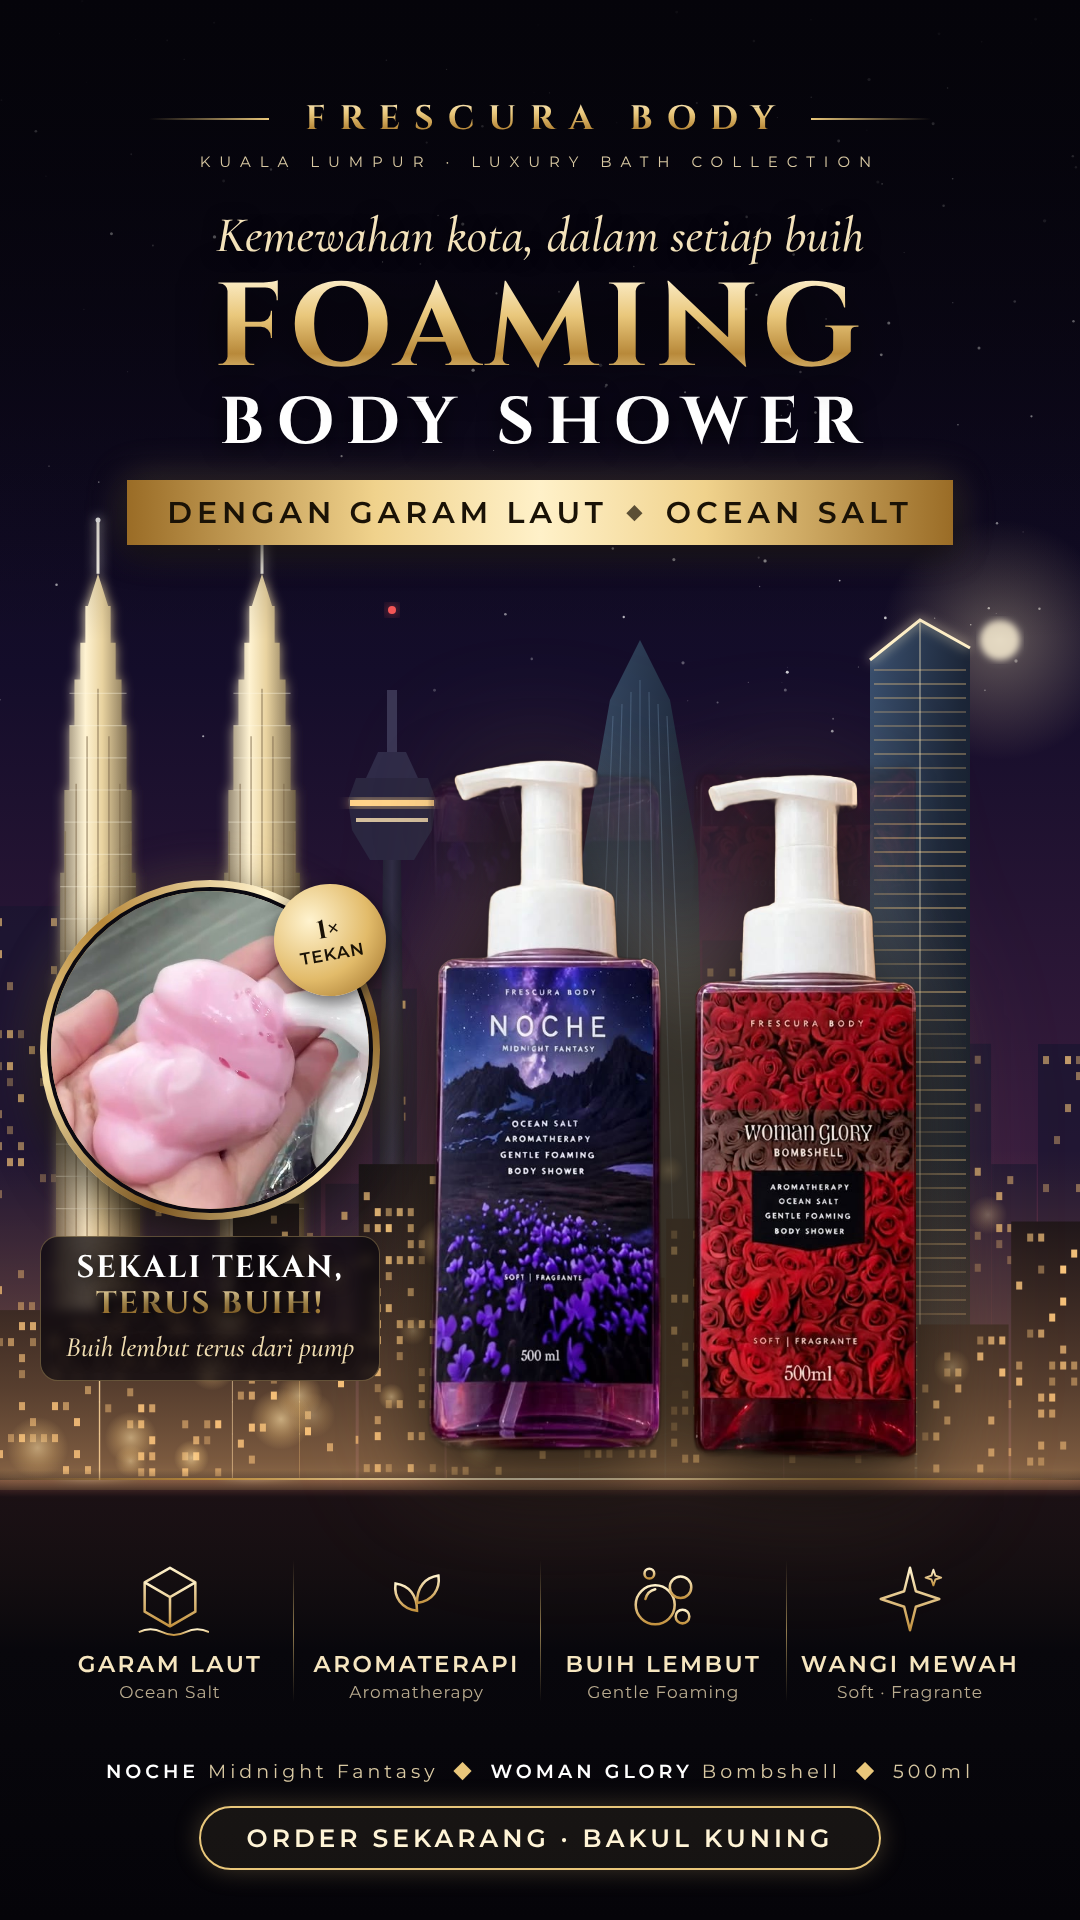
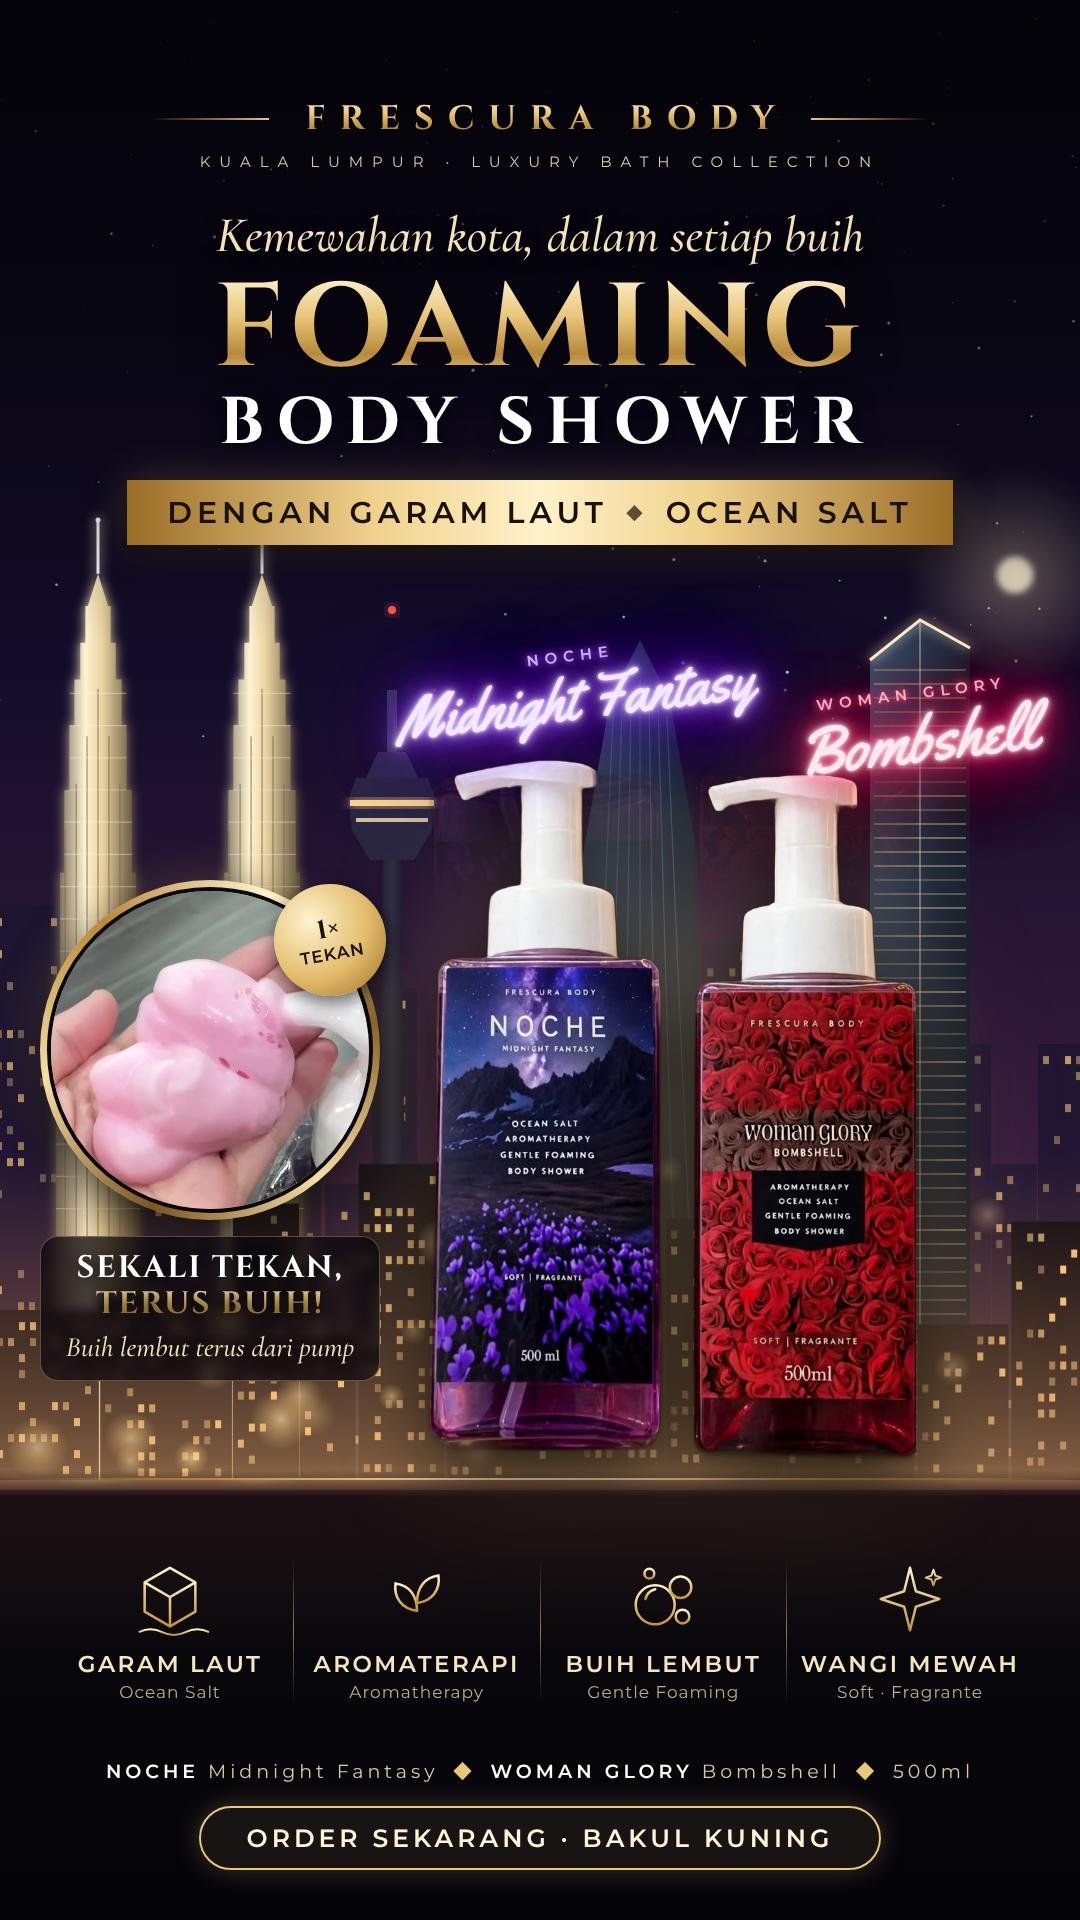
Poster: add neon scent signs (Midnight Fantasy, Bombshell) beside bottles
Claude-Session: https://claude.ai/code/session_01EnT89DroVnKFhuXbKWdgpB

Changed region(s): [[0.3361, 0.25, 1.0, 0.4375]]

diff --git a/poster/poster.html b/poster/poster.html
@@ -59,6 +59,15 @@ html,body{width:1080px;height:1920px;background:var(--ink);overflow:hidden}
 #variants b{color:#fff;font-weight:700}
 #variants .dot{color:var(--gold2);padding:0 14px}
 #cta{top:1806px}
+/* neon scent signs */
+.neon{position:absolute;font-family:Yellowtail;white-space:nowrap;line-height:1;transform:rotate(-7deg)}
+.neon small{display:block;font-family:Montserrat;font-weight:600;font-size:15px;letter-spacing:6px;margin-bottom:6px;text-align:center}
+#neonN{left:395px;top:648px;font-size:60px;color:#f3e8ff;
+  text-shadow:0 0 4px #fff,0 0 10px #e2c6ff,0 0 20px #b36bff,0 0 38px #8a3dff,0 0 70px #7a2dff,0 0 110px #6a1fff}
+#neonN small{color:#e9d8ff;text-shadow:0 0 6px #b36bff,0 0 14px #8a3dff}
+#neonB{left:796px;top:686px;font-size:66px;color:#ffe8ee;
+  text-shadow:0 0 4px #fff,0 0 10px #ffc0d2,0 0 20px #ff4f86,0 0 38px #ff1f5f,0 0 70px #ff0f4f,0 0 110px #e6003c}
+#neonB small{color:#ffd6e1;text-shadow:0 0 6px #ff4f86,0 0 14px #ff1f5f}
 #cta span{display:inline-block;padding:15px 46px;border:2px solid var(--gold2);border-radius:999px;font-weight:700;font-size:25px;letter-spacing:4px;color:var(--gold1);background:rgba(233,199,123,.08);box-shadow:0 0 26px rgba(233,199,123,.25)}
 </style></head>
 <body>
@@ -82,6 +91,9 @@ html,body{width:1080px;height:1920px;background:var(--ink);overflow:hidden}
   <img id="reflect" src="assets/bottles.png">
   <div id="floorline"></div>
   <img id="bottles" src="assets/bottles.png">
+
+  <div class="neon" id="neonN"><small>NOCHE</small>Midnight Fantasy</div>
+  <div class="neon" id="neonB"><small>WOMAN GLORY</small>Bombshell</div>
 
   <div id="foam">
     <div class="ring"><img src="assets/foam.jpg"></div>
@@ -161,8 +173,8 @@ el('rect',{x:0,y:0,width:1080,height:1920,fill:'url(#skyg)'});
 // stars
 for(let i=0;i<140;i++){el('circle',{cx:rnd()*1080,cy:rnd()*760,r:rnd()*1.4+.3,fill:'#fff',opacity:(rnd()*.6+.2).toFixed(2)})}
 // moon glow
-el('circle',{cx:1000,cy:640,r:120,fill:'url(#moon)',opacity:.45});
-el('circle',{cx:1000,cy:640,r:20,fill:'#fff3d6',opacity:.8,filter:'url(#soft)'});
+el('circle',{cx:1015,cy:575,r:110,fill:'url(#moon)',opacity:.45});
+el('circle',{cx:1015,cy:575,r:18,fill:'#fff3d6',opacity:.8,filter:'url(#soft)'});
 
 // generic buildings w/ windows
 function building(x,w,h,fill,winC,winP,layerOp=1){

diff --git a/poster/assets/fonts.css b/poster/assets/fonts.css
@@ -4,3 +4,5 @@
 @font-face{font-family:'Cormorant Garamond';font-style:normal;font-weight:500;src:url(fonts/CormorantGaramond-500n.woff2) format('woff2');}
 @font-face{font-family:'Montserrat';font-style:normal;font-weight:400;src:url(fonts/Montserrat-400n.woff2) format('woff2');}
 @font-face{font-family:'Montserrat';font-style:normal;font-weight:600;src:url(fonts/Montserrat-600n.woff2) format('woff2');}
+@font-face{font-family:'Neonderthaw';font-style:normal;font-weight:400;src:url(fonts/Neonderthaw-400n.woff2) format('woff2');}
+@font-face{font-family:'Yellowtail';font-style:normal;font-weight:400;src:url(fonts/Yellowtail-400n.woff2) format('woff2');}
